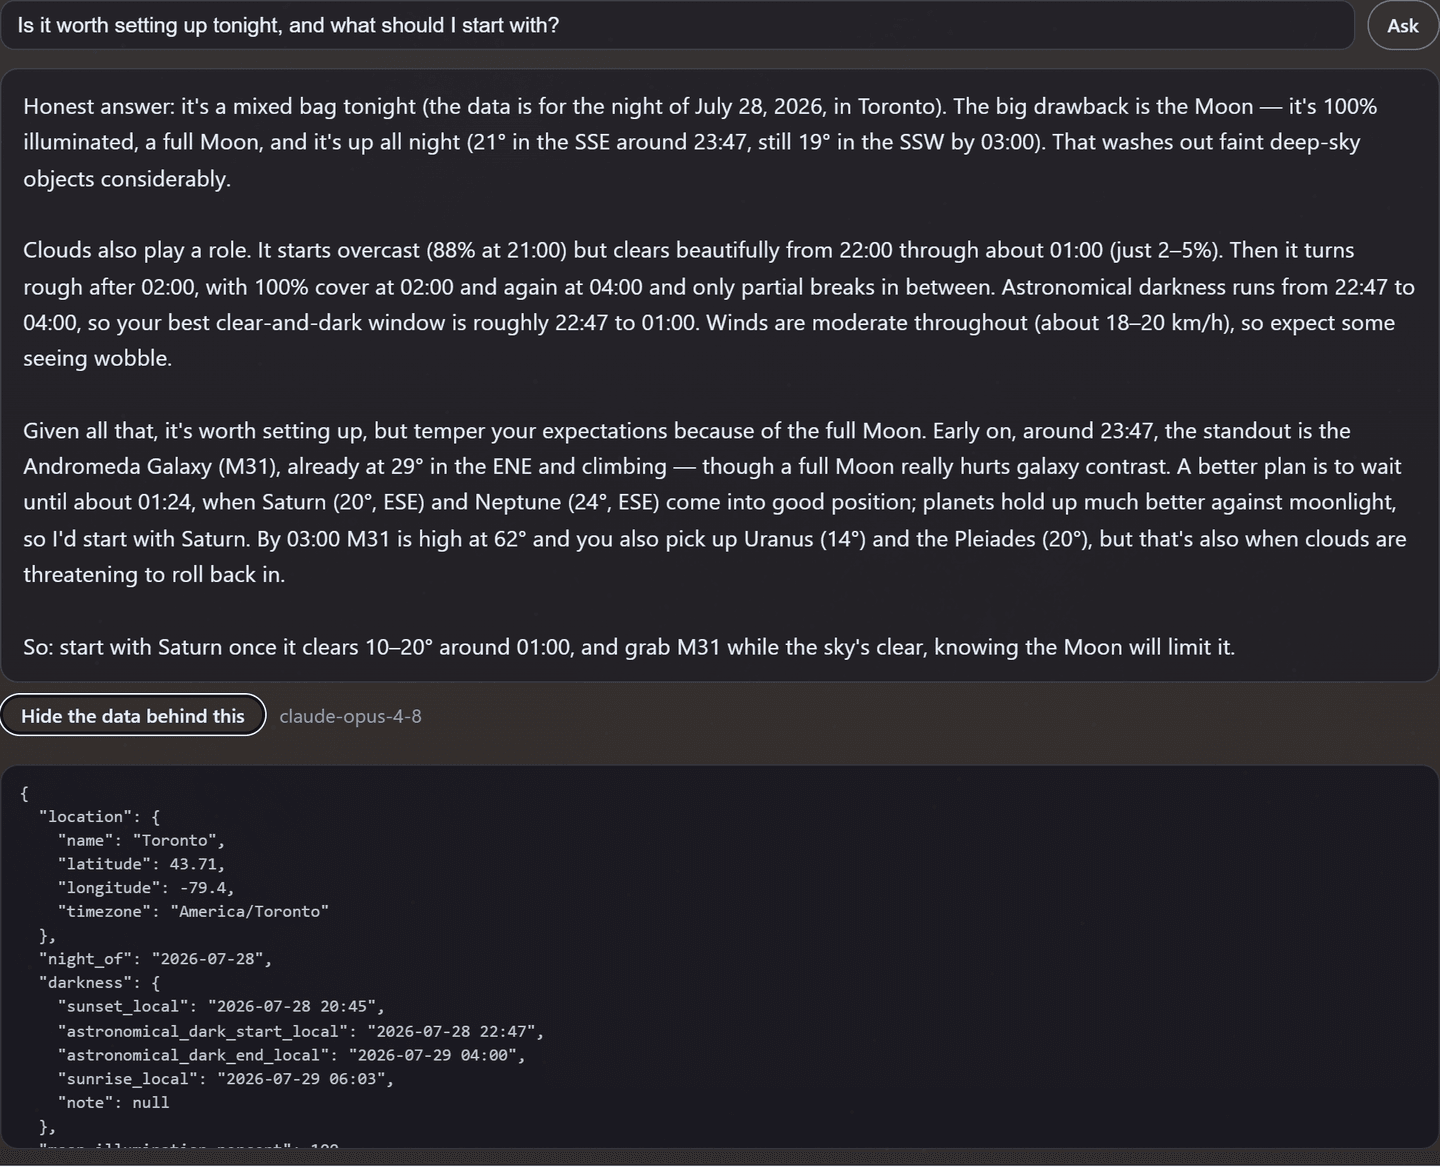
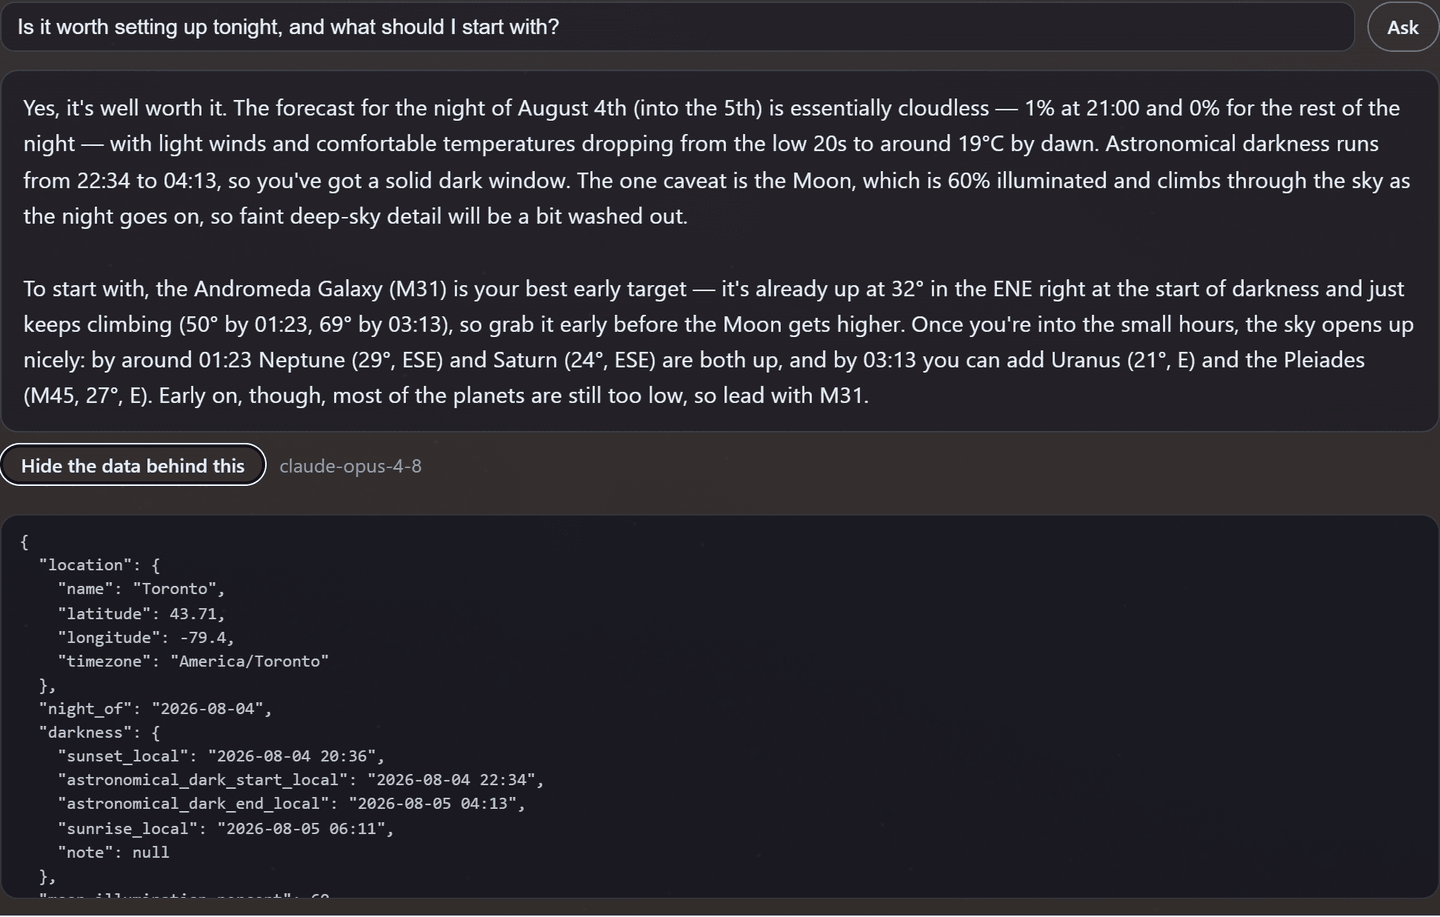
Refresh screenshots for the corrected ranking
All captures re-shot in one pass on the app's own recommended night. Adds the second recommendation state - a clearer site that isn't worth the drive - since the default night shows only the case where the current site wins outright.

Changed region(s): [[0.0, 0.0, 1.0, 0.9466], [0.0, 0.9771, 1.0, 1.0]]

diff --git a/README.md b/README.md
@@ -78,15 +78,24 @@ bright-Moon night offers different questions than a clouded-out one:
 
 ![Context-sensitive prompts](docs/screenshots/advisor-prompts.png)
 
-| Seven-night outlook | Best saved site tonight |
-|---|---|
-| ![Outlook](docs/screenshots/outlook.png) | ![Best location](docs/screenshots/best-location.png) |
+![Seven-night outlook](docs/screenshots/outlook.png)
 
-The site recommendation is scored on sky quality alone — cloud, clear-window
-length, moonlight weighted by how much of the dark window the Moon is actually
-up, and wind — so the ranking doesn't change depending on where you're
-standing. Distance is applied separately, as a bar a site has to clear before
-it's worth driving to.
+Nights are ranked by the same scorer used for sites, so the outlook and the
+location comparison can't disagree about what "better" means: cloud,
+clear-window length, moonlight weighted by how much of the dark window the
+Moon is actually up, and wind.
+
+That scoring deliberately knows nothing about where you're standing, so the
+ranking is identical whichever site you ask from. Distance enters separately,
+as a bar a site has to clear before it's worth driving to — which gives the
+recommendation two distinct things to say:
+
+| Your site is the best one | Somewhere is clearer, but not worth the drive |
+|---|---|
+| ![Best saved site](docs/screenshots/best-location.png) | ![Clearer site not worth the drive](docs/screenshots/best-location-tradeoff.png) |
+
+Both name their numbers. A recommendation you can't check is one you won't
+trust — especially when it's asking you to drive 200 km.
 
 ### Sessions
 
